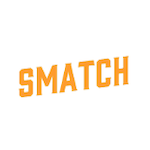
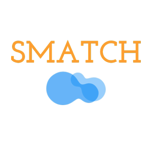
Add logout

Changed region(s): [[0.0533, 0.2667, 0.96, 0.72]]

diff --git a/src/navigation/DrawerNavigator.js b/src/navigation/DrawerNavigator.js
@@ -1,5 +1,10 @@
 import React from "react";
-import { createDrawerNavigator } from "@react-navigation/drawer";
+import {
+  createDrawerNavigator,
+  DrawerContentScrollView,
+  DrawerItemList,
+  DrawerItem,
+} from '@react-navigation/drawer';
 import { setDrawerNavBarProperties } from "./utils/NavBarProperties";
 import { CreateGroupScreen } from "../screens/CreateGroupScreen";
 import { HomeScreenStackNavigator } from "./StackNavigator";
@@ -12,19 +17,38 @@ import {
 import SettingsScreen from "../screens/SettingsScreen";
 import AboutScreen from "../screens/AboutScreen";
 import AccountScreen from "../screens/AccountScreen";
+import { setLoggedOutCredentials } from "../redux/actions/actionCreators";
+import { connect } from "react-redux";
+import { logoutUsingFacebookApi } from "../api/facebook-login/facebookLoginUtils";
 
 const Drawer = createDrawerNavigator();
 
-export default function DrawerNavigator() {
+export function DrawerNavigator({ setLoggedOutCredentials }) {
   return (
-      <Drawer.Navigator {...setDrawerNavBarProperties()}>
+      <Drawer.Navigator {...setDrawerNavBarProperties()} drawerContent={props => <CustomDrawerContent {...props} logout={setLoggedOutCredentials} />}>
         <Drawer.Screen name="Home" component={HomeScreenStackNavigator} {...disableDrawerNavBar()} />
         <Drawer.Screen name="Create Group" component={CreateGroupScreen} {...setCreateGroupScreenHeaders()} />
         <Drawer.Screen name="Settings" component={SettingsScreen} {...setSettingsScreenHeaders()} />
         <Drawer.Screen name="About" component={AboutScreen} {...setAboutScreenHeaders()} />
         <Drawer.Screen name="Account" component={AccountScreen} {...setAccountScreenHeaders()} />
-        <Drawer.Screen name="Log out" component={SettingsScreen} {...setSettingsScreenHeaders()} />
       </Drawer.Navigator>
+  );
+}
+
+const mapDispatchToProps = {
+  setLoggedOutCredentials
+};
+export default connect(null, mapDispatchToProps)(DrawerNavigator);
+
+function CustomDrawerContent(props) {
+  return (
+    <DrawerContentScrollView {...props}>
+      <DrawerItemList {...props} />
+      <DrawerItem label="Log Out" onPress={() => {
+        props.logout();
+        logoutUsingFacebookApi();
+      }} />
+    </DrawerContentScrollView>
   );
 }
 

diff --git a/src/screens/GroupsScreen.js b/src/screens/GroupsScreen.js
@@ -132,16 +132,14 @@ export default connect(mapStateToProps, mapDispatchToProps)(GroupsScreen);
 function ServerOfflineErrorMessage() {
   return (
     <>
-      <Text style={styles.errTextStyle}>Please load java server & ngrok to see results!</Text>
-      <Text style={styles.errTextStyle}>Groups mocks are deprecated</Text>
+      <Text style={styles.errTextStyle}>No groups found</Text>
     </>
   );
 }
 
 const styles = StyleSheet.create({
   errTextStyle: {
-    fontSize: 50,
     textAlign: "center",
-    backgroundColor: colors.secondary,
-  },
+    fontSize: 40,
+    color: "red",  },
 });

diff --git a/src/api/facebook-login/facebookLoginUtils.js b/src/api/facebook-login/facebookLoginUtils.js
@@ -22,6 +22,17 @@ export async function logInUsingFacebookApi(updateAuthLogIn) {
   }
 }
 
+export async function logoutUsingFacebookApi() {
+  try {
+    await Facebook.initializeAsync({
+      appId: Constants.manifest.facebookAppId,  // Declared in app.json
+    });
+    await Facebook.logOutAsync();
+  } catch (props) {
+    Alert.alert(`Facebook Logout Error: ${props.message}`);
+  }
+}
+
 // TODO use facebook authenticate credentials to see if user needs to log in
-// TODO add log out
 // TODO check on loading if user need to reauthenticate or not
+// TODO change logo

diff --git a/src/redux/actions/actionCreators.js b/src/redux/actions/actionCreators.js
@@ -10,7 +10,7 @@ import {
   UPDATE_GROUPS,
   RESET_SMATCH_BADGE,
   DELETE_MATCHES_BY_GROUP_ID,
-  DELETE_MATCH, LOG_IN
+  DELETE_MATCH, LOG_IN, LOG_OUT
 } from "./actions";
 
 
@@ -103,5 +103,11 @@ export function setLoggedInCredentials(facebook_id) {
   return {
     type: LOG_IN,
     payload: { facebook_id: facebook_id },
+  };
+}
+
+export function setLoggedOutCredentials() {
+  return {
+    type: LOG_OUT,
   };
 }
